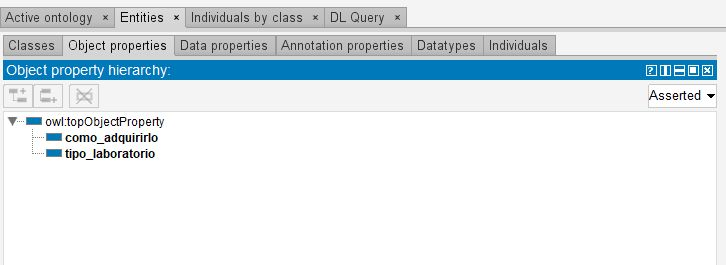
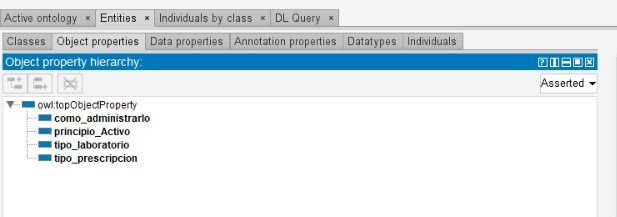
Latex

Changed region(s): [[0.0, 0.0, 1.0, 0.7742]]

diff --git a/Latex/sections/SPARQL.tex b/Latex/sections/SPARQL.tex
@@ -1,0 +1,129 @@
+\documentclass[../main.tex]{subfiles}
+
+\begin{document}
+Una vez realizado el modelado en Protegé, se pueden realizar diversas consultas SPARQL para obtener información tanto de la Base de Datos como de los datos en sí que contiene este modelado. En primer lugar, se mostrarán varias consultas SPARQL que proporcionen información sobre la base de datos. Y, en segundo lugar, se podrán observar otro tipo de consultas extra sobre los datos. \\
+
+Para la realización de estas consultas, ha sido utilizado GraphDB
+\subsection{Consula SPARQL 1}
+La primera consulta que se va a realizar será la más típica para conocer la base de datos. Lo principal para conocer la base de datos, es saber que clases la compone.
+\begin{lstlisting}
+PREFIX owl:<http://www.w3.org/2002/07/owl#>
+PREFIX rdf: <http://www.w3.org/1999/02/22-rdf-syntax-ns#>
+PREFIX rdfs: <http://www.w3.org/2000/01/rdf-schema#>
+PREFIX farma: <http://www.semanticweb.org/mruiz/ontologies/2022/10/medicamentos#>
+
+select ?classes where {
+    ?classes a owl:Class
+}
+\end{lstlisting}
+Esta consulta proporciona el siguiente resultado:
+\begin{figure}[h]
+    \centering
+    \includegraphics[scale=0.2]{images/clases_sparql.png}
+    \caption{Consulta SPARQL 1}
+    \label{fig:mesh1}
+\end{figure}
+
+\subsection{Consula SPARQL 2}
+Otra consulta muy común para conocer el modelo, es obtener las propiedades definidas en este, para ello, se realiza la siguiente consulta:
+\begin{lstlisting}
+PREFIX owl:<http://www.w3.org/2002/07/owl#>
+PREFIX rdf: <http://www.w3.org/1999/02/22-rdf-syntax-ns#>
+PREFIX rdfs: <http://www.w3.org/2000/01/rdf-schema#>
+PREFIX farma: <http://www.semanticweb.org/mruiz/ontologies/2022/10/medicamentos#>
+select ?property
+where { 
+    {?property rdf:type owl:ObjectProperty . }
+    UNION {?property rdf:type owl:DatatypeProperty}
+}
+\end{lstlisting}
+
+Esta consulta proporciona el siguiente resultado:
+\begin{figure}[h]
+    \centering
+    \includegraphics[scale=0.2]{images/propiedades-sparql.png}
+    \caption{Consulta SPARQL 2}
+    \label{fig:mesh1}
+\end{figure}
+
+\subsection{Consula SPARQL 3}
+Por último, se mostrarán las clases que tienen una propiedad dada, en este caso la propiedad es "como administrarlo".
+La consulta se realiza de la siguiente manera:
+\begin{lstlisting}
+PREFIX owl:<http://www.w3.org/2002/07/owl#>
+PREFIX rdf: <http://www.w3.org/1999/02/22-rdf-syntax-ns#>
+PREFIX rdfs: <http://www.w3.org/2000/01/rdf-schema#>
+PREFIX farma: <http://www.semanticweb.org/mruiz/ontologies/2022/10/medicamentos#>
+
+select distinct ?class where { 
+    ?individuo farma:como_administrarlo ?v . 
+    ?individuo rdf:type ?class . 
+    
+} 
+\end{lstlisting}
+
+El resultado es el siguiente:
+\begin{figure}[h]
+    \centering
+    \includegraphics[scale=0.2]{images/comoAdministrarlo.png}
+    \caption{Consulta SPARQL 3}
+    \label{fig:mesh1}
+\end{figure}
+
+
+Una vez se han realizado las consultas típicas y esenciales para conocer la base de datos. se propcede a la realización de las consultas con los datos proporcionados.
+
+\subsection{Consula SPARQL 4}
+
+En esta consulta, se han buscado todos los medicamentos que necesitan ser adquiridos mediante prescripción médica.
+
+La consulta SPARQL se ha diseñado de la siguiente manera:
+\begin{lstlisting}
+PREFIX owl:<http://www.w3.org/2002/07/owl#>
+PREFIX rdf: <http://www.w3.org/1999/02/22-rdf-syntax-ns#>
+PREFIX rdfs: <http://www.w3.org/2000/01/rdf-schema#>
+PREFIX farma: <http://www.semanticweb.org/mruiz/ontologies/2022/10/medicamentos#>
+
+select distinct ?medicamento ?conReceta
+where {
+    ?medicamento farma:como_adquirirlo ?conReceta
+	FILTER(?conReceta = "Con receta")   
+}
+\end{lstlisting}
+Esta consulta proporciona el siguiente resultado:
+\begin{figure}[h]
+    \centering
+    \includegraphics[scale=0.2]{images/medicamentosReceta.png}
+    \caption{Consulta SPARQL 4}
+    \label{fig:mesh1}
+\end{figure}
+
+\subsection{Consula SPARQL 5}
+La última consulta, se muestran los medicamentos recubiertos con película junto a sus principios activos.
+La consulta SPARQL se ha diseñado de la siguiente forma:
+\begin{lstlisting}
+PREFIX owl:<http://www.w3.org/2002/07/owl#>
+PREFIX rdf: <http://www.w3.org/1999/02/22-rdf-syntax-ns#>
+PREFIX rdfs: <http://www.w3.org/2000/01/rdf-schema#>
+PREFIX farma: <http://www.semanticweb.org/mruiz/ontologies/2022/10/medicamentos#>
+
+select distinct ?medicamento ?conPelicula ?principioActivo
+where {
+    ?medicamento farma:principio_Activo ?principioActivo .
+    ?medicamento farma:tipos_de_forma_farmaceutica ?conPelicula
+	FILTER(?conPelicula = "Comprimido recubierto con pelicula")   
+}
+\end{lstlisting}
+Esta consulta proporciona el siguiente resultado:
+\begin{figure}[h]
+    \centering
+    \includegraphics[scale=0.2]{images/conPelicula-SPARQL.png}
+    \caption{Consulta SPARQL 5}
+    \label{fig:mesh1}
+\end{figure}
+
+
+
+
+
+\end{document}

diff --git a/Latex/sections/protege.tex b/Latex/sections/protege.tex
@@ -1,18 +1,18 @@
 \documentclass[../main.tex]{subfiles}
 
 \begin{document}
-Para poder empezar con el modelado en Protegé se ha considerado como clases todas las características dentro del documento llamado \textbf{medicamentos.xlsx } tal y como se muestra en la siguiente imagen. Medicamentos se considera la clase principal y el resto de clases heredan de ella.\\
+Para poder empezar con el modelado en Protegé se ha considerado como clases todas las características dentro del documento llamado \textbf{medicamentos.xlsx } tal y como se muestra en la siguiente imagen: \\
 
 \begin{figure}[h]
     \centering
-    \includegraphics[scale=0.7]{images/protege-Classes.jpeg}
+    \includegraphics[scale=0.7]{images/protege-Clases.jpeg}
     \caption{Clases}
     \label{fig:mesh1}
 \end{figure}
 
 
 \vspace{2cm}
-Se han creado además dos propiedades de tipo objeto que son: como adquirirlo y tipo de laboratorio. La primera tiene como dominio la clase \textbf{Prescripcion} y como rango la clase \textbf{Con-Receta}. La segunda tiene como dominio la clase de \textbf{Laboratorio Titular}.\\
+Se han creado además cuatro propiedades de tipo objeto que son: como adquirirlo que tiene como dominio la clase \textbf{Vías de Administración}, principio activo que tiene como dominio la clase \textbf{Principio Activo}, tipo de prescripción tien como dominio la clase \textbf{Prescripcion} y tipo de laboratorio tiene como dominio la clase de \textbf{Laboratorio Titular}.\\
 
 \begin{figure}[h]
     \centering
@@ -22,7 +22,7 @@ Se han creado además dos propiedades de tipo objeto que son: como adquirirlo y 
 \end{figure}
 
 \vspace{1cm}
-También, se han creado como propiedades de datos las cinco siguientes: nombre del medicamento que se relaciona con la clase Medicamento directamente, tipos de forma farmaceutica y cantidad de dosis que se relacionan con Dosis, tipos de vías de administración que se relaciona con la clase Vías de Administración y tipos de principios activos que se relaciona con Principios Activos. Todas estas propiedades se han considerado de tipo \textit{string}. \\
+También, se han creado como propiedades de datos las tres siguientes: cantidad de dosis que se relaciona con la clase \textbf{Dosis}, como adquirirlo que se relaciona con la clase \textbf{Con Recetas} y tipo de forma farmacéutica que se relaciona con la clase \textbf{Forma Farmacéutica} Todas estas propiedades se han considerado de tipo \textit{string}. \\
 
 \begin{figure}[h]
     \centering
@@ -32,21 +32,28 @@ También, se han creado como propiedades de datos las cinco siguientes: nombre d
 \end{figure}
 
 \vspace{2cm}
-Se ha creado un ejemplo de medicamento en el que se han insertado datos para las propiedades de datos y se ha seleccionado de que tipo de clase es dicho individuals. \\
+Se han creado varios tipos de principios activos, de laboratorios, de vías de administración y de tipos de prescripción para así poder crear de manera adecuada los cinco ejemplos de medicamentos para poder después trabajar con las queries en SPARQL.\\
 
 \begin{figure}[h]
     \centering
-    \includegraphics[scale=0.4]{images/protege-Annotations.jpeg}
-    \caption{Annotations}
+    \includegraphics[scale=0.7]{images/protege-Individuals-pt1.jpeg}
+    \caption{Individuals}
+    \label{fig:mesh1}
+\end{figure}
+
+\begin{figure}[h]
+    \centering
+    \includegraphics[scale=0.5]{images/protege-Individuals-pt2.jpeg}
+    \caption{Individuals}
     \label{fig:mesh1}
 \end{figure}
 
 \vspace{1cm}
-Finalmente, se ha generado un grafo con las clases que componen el modelado y el correspodiente ejemplo que hemos creado: \\
+Finalmente, se ha generado un grafo con las clases que componen el modelado y los correspondientes ejemplos de individuals que hemos creado àra poder relacionar las clases: \\
 
 \begin{figure}[h]
     \centering
-    \includegraphics[scale=0.4]{images/protege-Grafo.jpeg}   \caption{Annotations}
+    \includegraphics[scale=0.4]{images/protege-Grafo.jpeg}   \caption{Grafo}
     \label{fig:mesh1}
 \end{figure}
 

diff --git a/Latex/sections/introduccion.tex b/Latex/sections/introduccion.tex
@@ -21,7 +21,7 @@ La estructura del documento va a constar de las siguientes partes:
     \item Un apartado que se refiera a las consultas XQuery realizadas.
     \item Un apartado que se refiera a las transformaciones XSL del documento XML.
     \item Un apartado en el que se muestre el modelado de Protegé. 
-    \item Una conclusión.
+    \item Conclusiones.
 \end{itemize}
 
 \subsection{Tecnologías usadas}
@@ -31,6 +31,8 @@ Las tecnologías usadas en este proyecto hasta el momento son las siguientes:
     \item Visual Studio Code para las transformaciones XSLT.
     \item eXist-db para poder realizar las consultas XQueries.
     \item Protegé para poder diseñar un grafo que modele nuestros datos.
+    \item El enlace al repositorio de GitHub es el siguiente: https://github.com/rosariogar/EDAID
+    
 \end{itemize}
 
 \end{document}

diff --git a/Latex/sections/consultasXQuery.tex b/Latex/sections/consultasXQuery.tex
@@ -1,6 +1,17 @@
 \documentclass[../main.tex]{subfiles}
 
 \begin{document}
+Para la realización de este apartado vamos a seguir el esquema de un fichero xml, el cual, tiene una estructura basada en el siguiente formato. 
+
+\begin{figure}[h]
+    \centering
+    \includegraphics[scale=0.8]{images/schema.PNG}
+    \caption{XML schema}
+    \label{fig:mesh1}
+\end{figure}
+
+
+
 
 \subsection{Consula XQuery 1}
 

diff --git a/Latex/main.tex b/Latex/main.tex
@@ -56,8 +56,8 @@ escapeinside={\%}{)}          % if you want to add a comment within your code
 \subfile{sections/transformaciones}
 \section{Protégé}
 \subfile{sections/protege}
-\section{Enlace Repositorio GitHub}
-\subfile{sections/repositorioGitHub}
+\section{Consultas SPARQL}
+\subfile{sections/SPARQL}
 
 
 % \section{Conclusiones}
